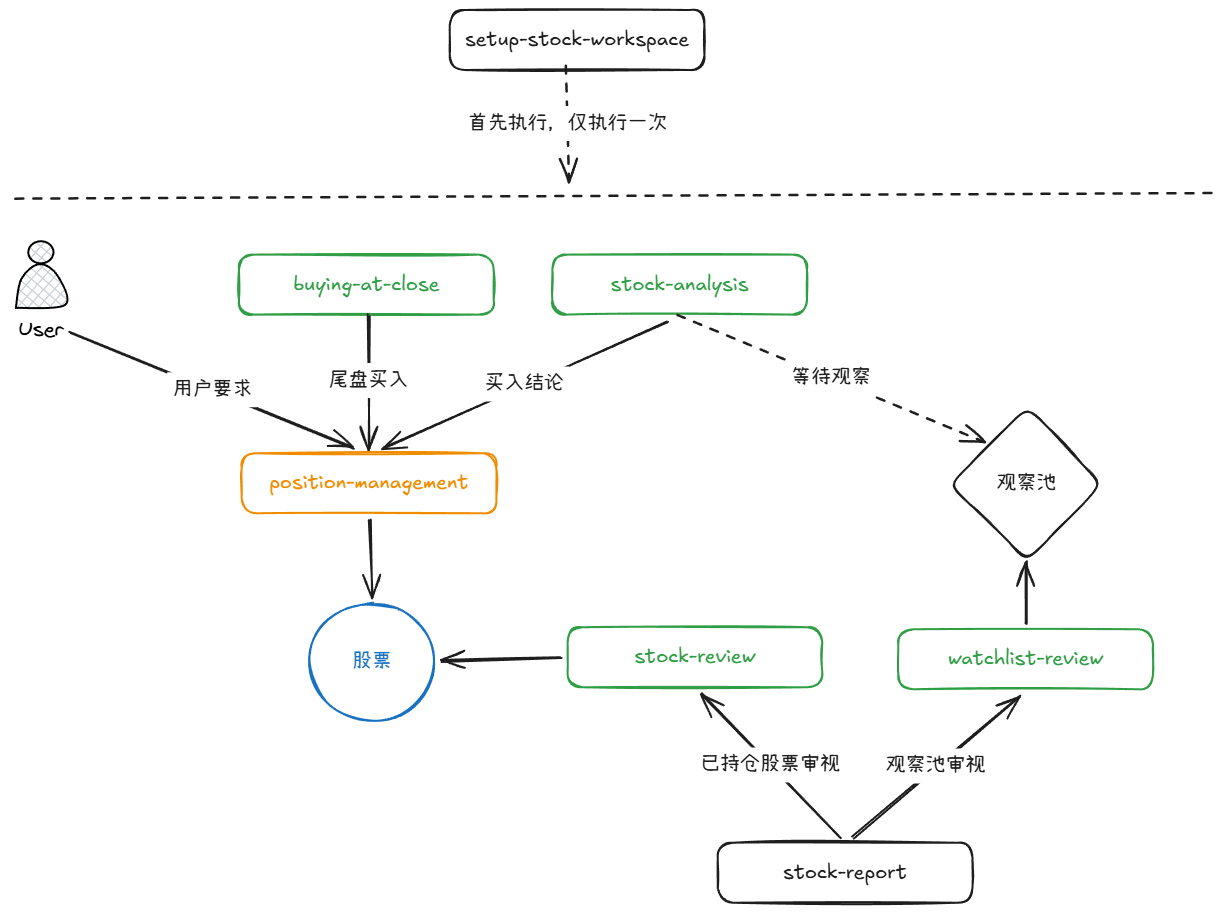
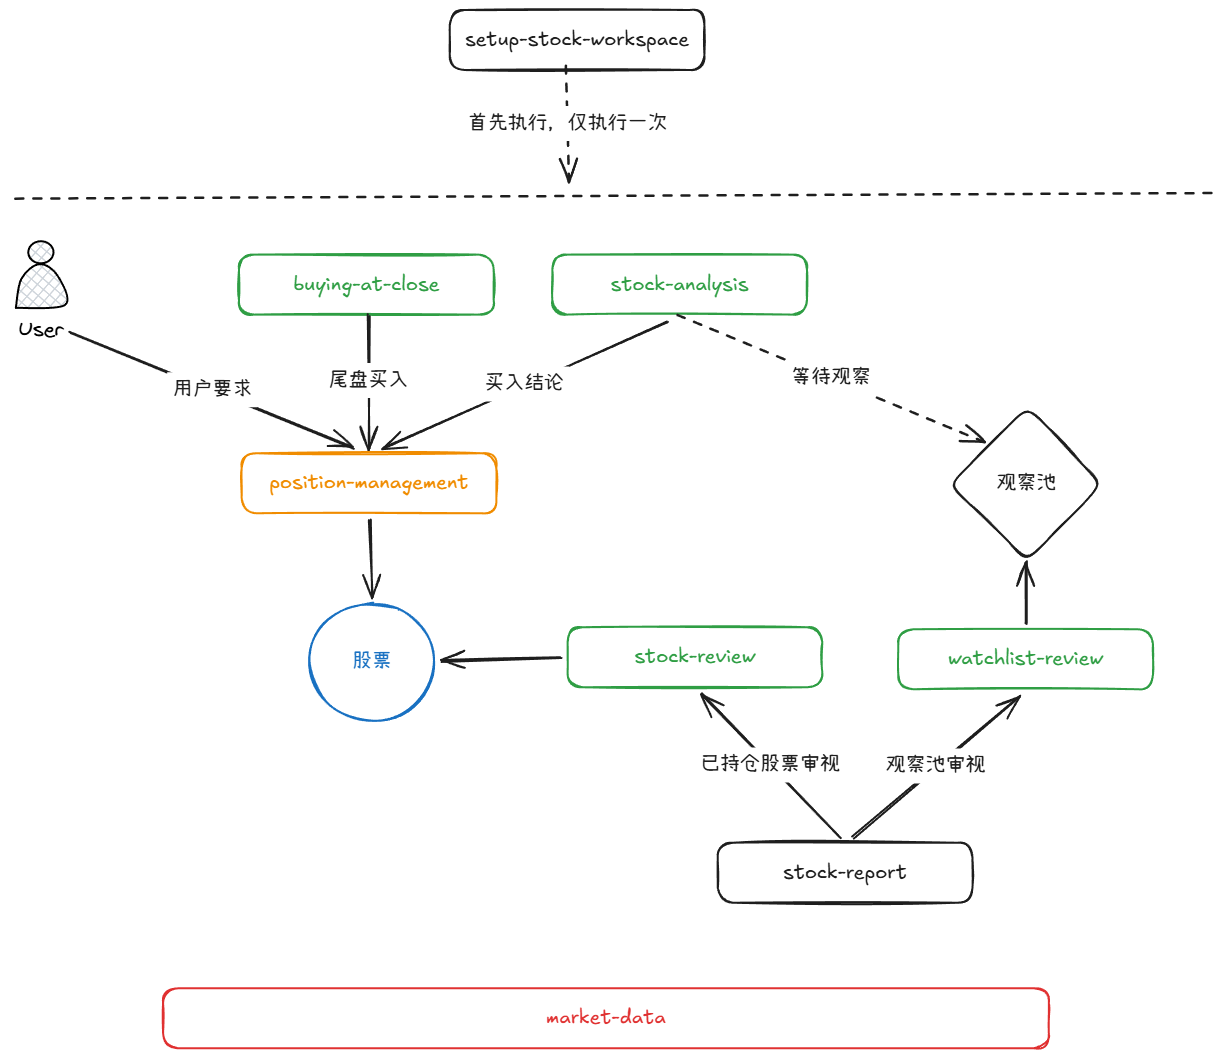
buying-at-close: 候选股先经 stock-analysis 分析再出结论; README 安装改用提示词并更新流程图

diff --git a/buying-at-close/SKILL.md b/buying-at-close/SKILL.md
@@ -1,6 +1,6 @@
 ---
 name: buying-at-close
-description: 尾盘买入法审视（14:30 后到 14:55 窗口）：读取工作区上下文（MUST.md「尾盘买入法执行规则」与个人交易风格、ACCOUNT.md 资金规则、POSITION.md 持仓），通过 $market-data 拉取大盘指数与强势股榜单并逐只审视（候选默认换手 5%–30%），输出「买入/不买」审视报告；给「买入」结论时输出次日止损止盈规则（止损价与触发规则、止盈位、1-3 日时间止损、9:25 集合竞价处理）。MUST.md 缺少「尾盘买入法执行规则」节时补一节并把本 SKILL 的关键条件与默认阈值（时间/换手/价格/仓位/市场/次日纪律）写入其中供用户修订，不覆盖已有规则；该节为空时同样补默认值并按默认执行。当用户请求“尾盘买什么、帮我看看今天尾盘能不能买、做尾盘买入审视、14:45 选股、看看强势股”或约定时间触发时使用；只出结论不下单，实际买卖由用户执行。
+description: 尾盘买入法审视（14:30 后到 14:55 窗口）：读取工作区上下文（MUST.md「尾盘买入法执行规则」与个人交易风格、ACCOUNT.md 资金规则、POSITION.md 持仓），通过 $market-data 拉取大盘指数与强势股榜单并快筛候选（默认换手 5%–30%），盘口初审后逐只调用 $stock-analysis 做全面分析（基本面/事件证伪/支撑压力/四动作信号；建仓信号是买入前提），再按 MUST 尾盘规则输出「买入/不买」审视报告；给「买入」结论时输出次日止损止盈规则（止损价与触发规则、止盈位、1-3 日时间止损、9:25 集合竞价处理）。MUST.md 缺少「尾盘买入法执行规则」节时补一节并把本 SKILL 的关键条件与默认阈值（时间/换手/价格/仓位/市场/次日纪律）写入其中供用户修订，不覆盖已有规则；该节为空时同样补默认值并按默认执行。当用户请求“尾盘买什么、帮我看看今天尾盘能不能买、做尾盘买入审视、14:45 选股、看看强势股”或约定时间触发时使用；只出结论不下单，实际买卖由用户执行。
 ---
 
 # 尾盘买入法审视（buying-at-close）
@@ -17,7 +17,7 @@ description: 尾盘买入法审视（14:30 后到 14:55 窗口）：读取工作
   - 14:55 后：不新建买入建议（宁错过，不追尾盘急拉）；
   - 收盘后运行：按当日结果做“模拟复盘 / 次日预案”，明确标注今日已不可买。
 - 依赖文件：MUST.md（「尾盘买入法执行规则」节 + 其他个人规则）、ACCOUNT.md（资金规则：实际可用资产口径、现金红线、单笔预算、当前档位）、POSITION.md（已有持仓：避免重复、受总仓位约束）、NOTES.md（教训准则）。
-- 交接：买入结论 → 次日/资金执行由用户决定；建仓与资金调度走 $position-management，次日持仓检查走 $stock-review；本 SKILL 不下单。
+- 交接：候选盘口初审后必须逐只过 $stock-analysis，只有输出「建仓信号」的候选才能进买入候选；买入结论 → 次日/资金执行由用户决定；建仓与资金调度走 $position-management（六格清单由 $stock-analysis 输出交接），次日持仓检查走 $stock-review；本 SKILL 不下单。
 
 ## 第一步：检查 MUST.md「尾盘买入法执行规则」节（每次必做）
 
@@ -55,30 +55,36 @@ description: 尾盘买入法审视（14:30 后到 14:55 窗口）：读取工作
 5. 快筛（用榜单 3 行以内数据即可排除）：
    - 剔除：ST/退市/风险警示（榜单请求已剔除）、当日一字涨停封死买不进、换手率不在默认区间 5%–30%（榜单请求已按 5%–30% 换手过滤；MUST 尾盘节另有阈值时以 MUST 为准）；
    - 标注：名字 N/C 开头的新股（上市 ≤5 日、无涨跌幅限制）为高风险，默认不进入买入候选；
-   - 快筛后保留 ≤5 只进入细审；不足 1 只 → 报告“今日无合格尾盘票”，说明卡在哪条。
-6. 细审（对每只候选调用 $market-data 拉真实数据）：
-   - 行情（近 60 日价格/MA/量/换手/振幅）、资金流向（主力净流入，配合量价判断）、必要时近期公告与新闻（事件/公告逻辑证伪）；
-   - 只向 $market-data 说明要哪些数据，具体脚本与参数由 $market-data 决定，本 SKILL 不包含执行命令。
+   - 快筛后保留 ≤5 只进入盘口初审（第 6 步）；不足 1 只 → 报告“今日无合格尾盘票”，说明卡在哪条。
+6. 盘口初审（尾盘六问；用 $market-data 拉当日盘口数据逐只快速过滤）：
+   - 数据：现价、量能/换手、资金流向（配合量价判断），必要时当日新闻/公告标题；只向 $market-data 说明要哪些数据，具体脚本与参数由 $market-data 决定，本 SKILL 不包含执行命令。
+   - 初审只排除尾盘形态与纪律不合格者，不做全量体检、事件证伪与支撑压力深挖——深度分析统一交给第 7 步 $stock-analysis。
    - 按下表「尾盘六问」逐项生成审视卡，每一项给“过/不过 + 依据数字”：
-   - 另将 MUST.md 其他规则（如“二买三不买”“短线五条”）逐条对照，任何一条不过就不是“今天的尾盘票”。
 
    | # | 检查 | 标准（过 / 不过） |
    |---|---|---|
-   | 1 | 体检及格 | PE 不为负 / 看得懂 / 不在避雷清单；换手率默认须在 5%–30%，>15% 情绪票降级或放弃（MUST 允许情绪博弈时按情绪票 ≤10% 处理） |
-   | 2 | 趋势位置 | 多头排列或回踩均线企稳；下降趋势不接 |
-   | 3 | 量价 | 当日缩量回踩或尾盘放量上涨；放量滞涨 / 大阴线排除 |
-   | 4 | 支撑压力 | 买点=支撑区企稳或放量突破关键压力后回踩；写出参考支撑/压力价位 |
-   | 5 | 市场状态 | 与第 3 步档位一致；下跌市不实盘 |
-   | 6 | 尾盘三条约束 | 14:45–14:55 下单 / 关键位挂单不追急拉 / 仓位≤短线博弈档 |
-7. 输出「尾盘买入审视报告」（格式固定）：
+   | 1 | 尾盘形态 | 当日缩量回踩或尾盘放量上涨；放量滞涨 / 大阴线 / 尾盘急拉排除 |
+   | 2 | 换手 | 默认 5%–30%（MUST 尾盘节为准）；>15% 情绪票降级或放弃 |
+   | 3 | 量价资金 | 缩量回踩或放量上涨且有承接；主力明显净流出不接（细看交 $stock-analysis） |
+   | 4 | 市场状态 | 与第 3 步档位一致；下跌市不实盘 |
+   | 5 | 时间窗口 | 14:45–14:55 才确认；14:55 后不追 |
+   | 6 | MUST 规则 | 「尾盘买入法执行规则」与 MUST 其余规则逐条对照，一条不过即不是今天的尾盘票 |
+
+   初审全过者进入第 7 步；全部被剔除 → 报告“今日无合格尾盘票”并说明卡点，不再调用 $stock-analysis。
+7. 逐只调用 $stock-analysis 深度分析（每只候选都过）：
+   - 请求口径：告知“这是今日 14:45–14:55 尾盘买入候选，请按当前盘中数据判断”，要求输出：四动作信号（今日是否满足建仓信号）、基本面体检、事件/公告逻辑证伪、支撑压力锚点（买点/止损/止盈）、风险；输出建仓信号时附六格清单分析（不落盘，交接给 $position-management）。
+   - $stock-analysis 是候选的终审闸门：输出「空仓信号 / 硬伤 / 触发条件未出现」→ 剔除并记录原因；输出「建仓信号」→ 保留为买入候选。
+8. 汇总结论：买入候选 = 盘口初审全过 + $stock-analysis 建仓信号 + MUST 尾盘规则全过，≤2 只按优先级排序。
+   - 无候选通过 → 结论“全部不买”，一句话说明卡在大盘档位 / 盘口初审 / $stock-analysis 哪个环节。
+   - 每只买入候选给下单要素：买点（$stock-analysis 支撑区或突破回踩关键位挂单，不追急拉）、止损（支撑区下沿 − 缓冲 0.5%–1%）、止盈（压力位）、时间止损（1–3 日）、手数上限（单笔预算 ÷ ((委托限价−止损)×100)，预算按 ACCOUNT.md 资金规则：实际可用资产 ×2%，降档期 1%）；执行金额与批次由 $position-management 复核确认。
+9. 输出「尾盘买入审视报告」（格式固定）：
    1. 标题 + 日期与运行时间（如：尾盘买入审视 · 2026-09-02 14:50）
    2. 市场状态与档位（含 MUST 尾盘节状态：有规则（按既有）/原空节已补默认/已新建默认）
    3. 强势股榜单摘要（来源榜单 + 过滤口径）
-   4. 逐只审视表（代码/名称/现价/形态/六问结果/MUST 检查 → 结论）
+   4. 逐只审视表（代码/名称/现价/尾盘六问结果/$stock-analysis 结论（信号 + 一句话依据）/MUST 检查 → 最终结论）
    5. 结论汇总：买入候选（≤2 只，按优先级排序）/ 全部不买（一句话理由）
    6. 给「买入」结论的每只股票输出「次日止损止盈规则卡」（见下）
    7. 结尾：“以上基于截至<日期>的真实数据，不构成投资建议，最终决定由用户作出。”
-8. 买入候选同时给下单要素：买点（关键位挂单价）、止损、止盈、时间止损、手数上限（单笔预算 ÷ ((委托限价−止损)×100)，预算按 ACCOUNT.md 资金规则：实际可用资产 ×2%，降档期 1%）；执行金额与批次由 $position-management 复核确认。
 
 ## 次日止损止盈规则卡（给「买入」结论时必出）
 
@@ -104,6 +110,7 @@ description: 尾盘买入法审视（14:30 后到 14:55 窗口）：读取工作
 
 - 数据必须真实：$market-data 拉不到就明确报错，不编造现价/量能/资金/形态。
 - 一条过滤不过就不买；形态只是观察清单，不是买入保证。
+- 候选必须过 $stock-analysis：只有输出「建仓信号」（非等待/空仓/硬伤）的候选才允许给「买入」，剔除原因写进报告；本 SKILL 只做盘口初审，基本面/事件证伪/支撑压力以 $stock-analysis 输出为准，不重复判定。
 - 时间一到即收手：14:55 后不新建买入建议，不追尾盘急拉。
 - 下跌市 / 观望档只出模拟练习清单，除非 MUST「尾盘买入法执行规则」明确允许实盘。
 - 只给结论不下单：实际买卖由用户在可交易时间执行；建仓执行与资金调度转 $position-management。
@@ -113,6 +120,6 @@ description: 尾盘买入法审视（14:30 后到 14:55 窗口）：读取工作
 ## 参考资料
 
 - $market-data：行情 / 强势股榜 / 资金流向 / 新闻公告统一取数（本 SKILL 只引用 $market-data，不关心具体脚本与参数）。
-- $stock-analysis：六问过滤之外的深度体检与支撑压力补充。
+- $stock-analysis：候选逐只全面分析（体检/事件证伪/支撑压力/四动作信号；建仓信号 + 六格清单是买入前提）。
 - $position-management：建仓资金调度、批次与账户更新
 - $stock-review：次日持仓检查。
